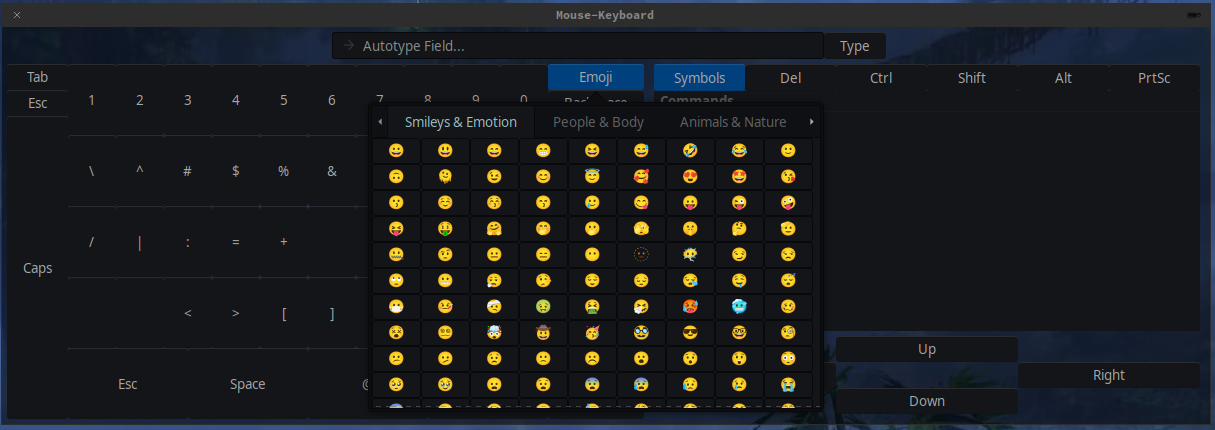
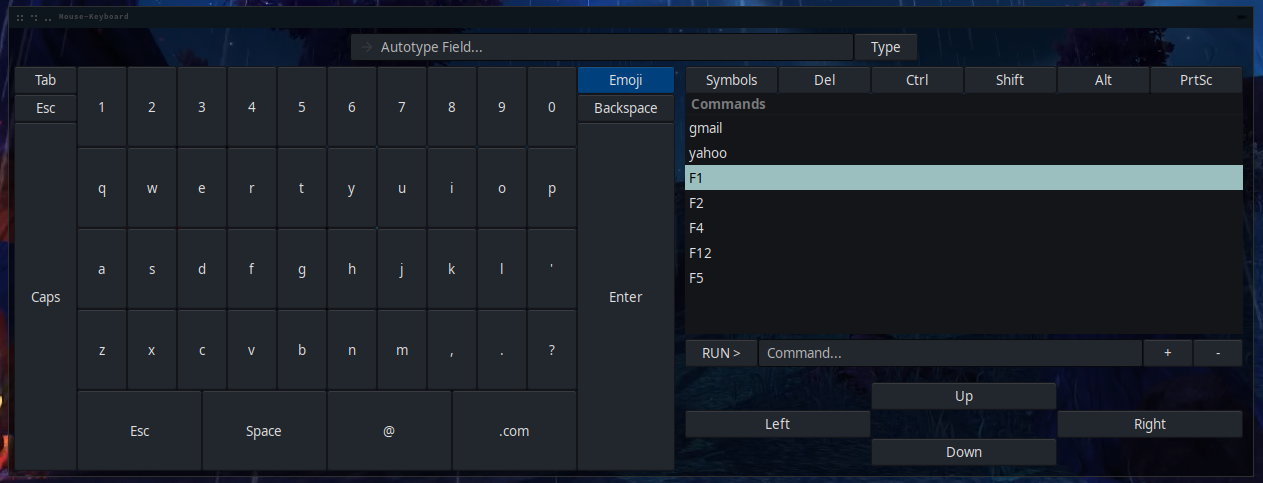
Added new image; updated README

diff --git a/README.md b/README.md
@@ -8,10 +8,8 @@ An onscreen keyboard for the mouse.
 * setproctitle
 * fast-autocomplete[levenshtein]
 
-# TODO
-<li>Get save and execute of custom commands working.</li>
-
 # Images
 ![1 image of the alphabet. ](images/pic1.png)
 ![2 Image of the symbols. ](images/pic2.png)
-![3 Image of the emoji. ](images/pic3.png)
+![3 Image of list of commands. ](images/pic3.png)
+![4 Image of the emoji. ](images/pic4.png)
